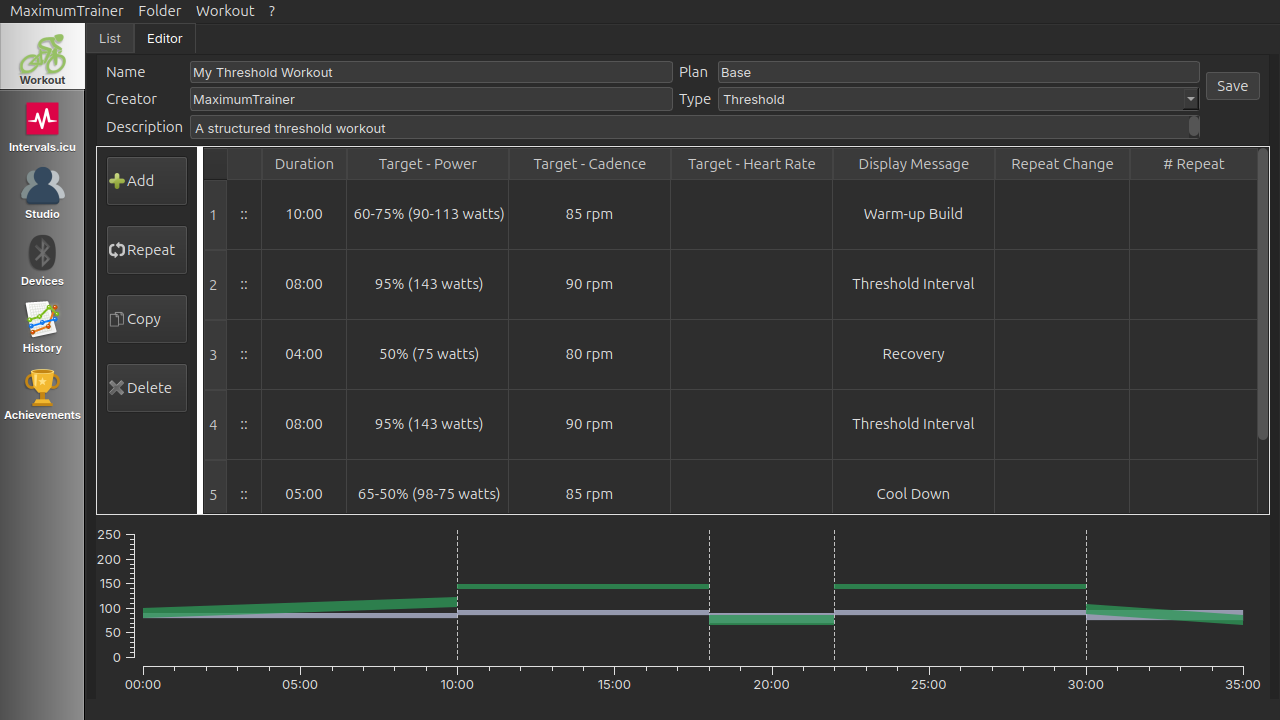
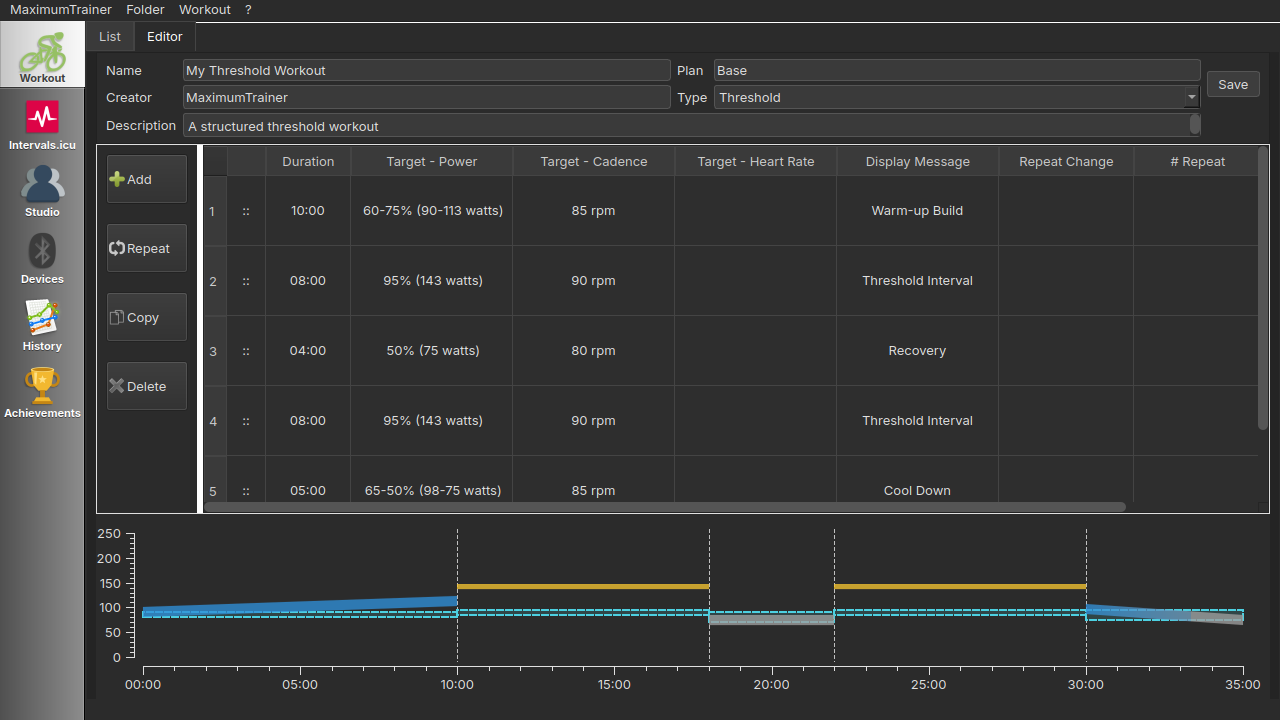
docs: refresh all screenshots
Recaptured in a clean dark-theme profile with --screenshots: workout window
(zone colours, ramp gradients, tinted off-target mini-graph), main window,
Preferences, Devices (new Simulated Sensors toggle), Studio and the editor.
The group workout images are the new workout window next to the riders
column (--group-panel-shot), as before.

Screenshot mode no longer runs the update check, so the "Update available"
banner stays out of the docs images.

diff --git a/src/ui/mainwindow.cpp b/src/ui/mainwindow.cpp
@@ -268,9 +268,12 @@ MainWindow::MainWindow(QWidget *parent) : QMainWindow(parent), ui(new Ui::MainWi
 
     //DialogConfig
     dconfig = new DialogMainWindowConfig(this);
-    auto *updateNotifier = new UpdateNotifier(this);
-    connect(updateNotifier, &UpdateNotifier::updateAvailable, this, &MainWindow::showUpdateAvailable);
-    updateNotifier->check();
+    // Screenshot mode feeds the docs: no "Update available" banner in them.
+    if (!QCoreApplication::arguments().contains(QLatin1String("--screenshots"), Qt::CaseInsensitive)) {
+        auto *updateNotifier = new UpdateNotifier(this);
+        connect(updateNotifier, &UpdateNotifier::updateAvailable, this, &MainWindow::showUpdateAvailable);
+        updateNotifier->check();
+    }
 
     // Athlete profile (FTP/LTHR/weight) edited in Preferences → recompute zones
     // and workout targets, same as the old profile page's FTP-change path.
